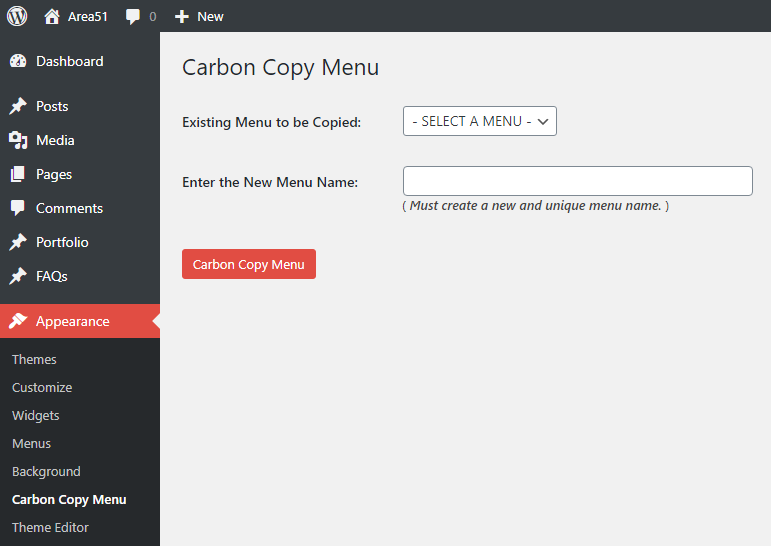
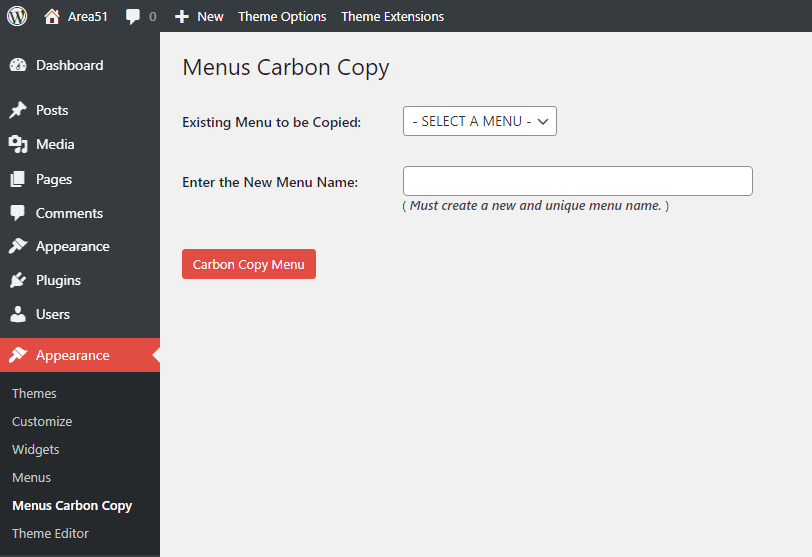
init 1.2.6

diff --git a/carbon-copy-options.php b/carbon-copy-options.php
@@ -31,6 +31,7 @@ function carbon_copy_register_settings()
 	register_setting( 'carbon_copy_group', 'carbon_copy_copycomments' );
 	register_setting( 'carbon_copy_group', 'carbon_copy_copymenuorder' );
 
+	register_setting( 'carbon_copy_group', 'carbon_copy_widgets_classic' );
 	register_setting( 'carbon_copy_group', 'carbon_copy_widgets' );
 	register_setting( 'carbon_copy_group', 'carbon_copy_menus' );
 
@@ -161,12 +162,18 @@ jQuery( function()
 
 	<div style="padding:10px 0px;"></div>
 	<h3>Others</h3>
+
 	<label>
-		<input type="checkbox" name="carbon_copy_widgets" value="1" <?php if( get_option( 'carbon_copy_widgets' ) == 1 ) echo 'checked="checked"'; ?> /><?php esc_html_e( "Apperance > Widgets", 'default' ); ?>
+		<input type="checkbox" name="carbon_copy_widgets_classic" value="1" <?php if( get_option( 'carbon_copy_widgets_classic' ) == 1 ) echo 'checked="checked"'; ?> /><strong><?php esc_html_e( "Classic Widgets:", 'default' ); ?></strong> <?php esc_html_e( "Disables Widget Block Editor Management", 'default' ); ?>
+	</label><?php if( get_option( 'carbon_copy_widgets_classic' ) == 1 ) echo ' | <a href="widgets.php" title="Opens Widgets page in New Window" target="_blank">Widgets Page</a>'; ?><br />
+
+	<label>
+		<input type="checkbox" name="carbon_copy_widgets" value="1" <?php if( get_option( 'carbon_copy_widgets' ) == 1 ) echo 'checked="checked"'; ?> /><strong><?php esc_html_e( "Widgets Carbon Copier:", 'default' ); ?></strong> <?php esc_html_e( "(only works with Classic Widgets) Located under Appearance > Widgets", 'default' ); ?>
 	</label><?php if( get_option( 'carbon_copy_widgets' ) == 1 ) echo ' | <a href="widgets.php" title="Opens Widgets page in New Window" target="_blank">Widgets Page</a>'; ?><br />
+  
 	<label>
-		<input type="checkbox" name="carbon_copy_menus" value="1" <?php if( get_option( 'carbon_copy_menus' ) == 1 ) echo 'checked="checked"'; ?> /><?php esc_html_e( "Appearance > Menus", 'default' ); ?>
-	</label><?php if( get_option( 'carbon_copy_menus' ) == 1 ) echo ' | <a href="themes.php?page=carbon-copy-menu" title="Opens Carbon Copy Menu page in New Window" target="_blank">Menu Copier</a>'; ?><br />
+		<input type="checkbox" name="carbon_copy_menus" value="1" <?php if( get_option( 'carbon_copy_menus' ) == 1 ) echo 'checked="checked"'; ?> /><strong><?php esc_html_e( "Menus Carbon Copy:", 'default' ); ?></strong> <?php esc_html_e( "Located under Appearance > Menus Carbon Copy", 'default' ); ?>
+	</label><?php if( get_option( 'carbon_copy_menus' ) == 1 ) echo ' | <a href="themes.php?page=carbon-copy-menu" title="Opens Menus Carbon Copy page in New Window" target="_blank">Menus Carbon Copy</a>'; ?><br />
 
 <div style="padding:10px 0px;"></div>
 <h2 id="permissions">Copy Permissions</h2>

diff --git a/carbon-copy-admin.php b/carbon-copy-admin.php
@@ -138,7 +138,8 @@ function carbon_copy_plugin_upgrade()
 	add_option( 'carbon_copy_copycomments', '0' );
 	add_option( 'carbon_copy_copymenuorder', '0' );
 
-	add_option( 'carbon_copy_widgets', '1' );
+	add_option( 'carbon_copy_widgets_classic', '0' );
+  add_option( 'carbon_copy_widgets', '0' );
 	add_option( 'carbon_copy_menus', '0' );
 	
 	// ! carbon copy roles
@@ -961,6 +962,16 @@ function carbon_copy_has_ancestors_marked( $post, $post_ids )
 	return( $ancestors_in_array !== 0 );
 }
 
+// Carbon Copy Restore Classic Widgets
+$carbon_copy_widgets_init = get_option( 'carbon_copy_widgets_classic' );
+if( $carbon_copy_widgets_init == '1' )
+{
+  // Disable block editor widget management in Gutenberg.
+  add_filter( 'gutenberg_use_widgets_block_editor', '__return_false' );
+  // Disable block editor widget management. Apperance > Widgets.
+  add_filter( 'use_widgets_block_editor', '__return_false' );
+}
+
 // Carbon Copy Widgets
 $carbon_copy_widgets_init = get_option( 'carbon_copy_widgets' );
 if( $carbon_copy_widgets_init == '1' )
@@ -1077,13 +1088,13 @@ class CarbonCopyMenu
     function __construct()
 	{
         add_action( 'admin_menu', array( $this, 'options_page' ) );
-    }
-    // Admin menu Appearance > Menu Copier
+  }
+  // Admin menu Appearance > Menus Carbon Copy
 	function options_page()
 	{
         add_theme_page(
-            'Carbon Copy Menu',
-            'Carbon Copy Menu',
+            'Menus Carbon Copy',
+            'Menus Carbon Copy',
             'edit_theme_options',
             'carbon-copy-menu',
             array( $this, 'options_screen' )
@@ -1158,7 +1169,7 @@ class CarbonCopyMenu
 
 <div class="wrap">
 
-	<h2><?php esc_html_e( 'Carbon Copy Menu', 'default' ); ?></h2>
+	<h2><?php esc_html_e( 'Menus Carbon Copy', 'default' ); ?></h2>
 	<?php if( ! empty( $_POST ) && wp_verify_nonce( $_POST['carbon_copy_menu_nonce'], 'carbon_copy_menu' ) ) : ?>
 		<?php
 			$source_menu   = intval( $_POST['source_menu'] );

diff --git a/carbon-copy.php b/carbon-copy.php
@@ -8,8 +8,8 @@ Author URI: https://endurtech.com/
 License: GPLv3 or later
 License URI: http://www.gnu.org/licenses/gpl-3.0.html
 Requires at least: 5.0
-Tested up to: 5.7
-Version: 1.2.4
+Tested up to: 5.8
+Version: 1.2.6
 
 This program is distributed in the hope that it will be useful,
 but WITHOUT ANY WARRANTY; without even the implied warranty of
@@ -20,7 +20,7 @@ if( ! defined( 'ABSPATH' ) )
   exit(); // No direct access
 }
 
-define( 'CARBON_COPY_CURRENT_VERSION', '1.2.4' );
+define( 'CARBON_COPY_CURRENT_VERSION', '1.2.6' );
 
 add_filter( "plugin_action_links_".plugin_basename(__FILE__), "carbon_copy_plugin_actions", 10, 4 );
 function carbon_copy_plugin_actions( $actions, $plugin_file, $plugin_data, $context )
@@ -66,6 +66,7 @@ function carbon_copy_deactivation_cleaner()
 		delete_option( 'carbon_copy_copycomments' );
 		delete_option( 'carbon_copy_copymenuorder' );
 
+    	delete_option( 'carbon_copy_widgets_classic' );
 		delete_option( 'carbon_copy_widgets' );
 		delete_option( 'carbon_copy_menus' );
 

diff --git a/README.md b/README.md
@@ -4,19 +4,23 @@ Contributors: Manny Rodrigues
 Donations: https://endurtech.com/give-thanks/  
 Tags: duplicate, page, pages, post, posts, widget, widgets, menu, menus, custom post type, copy, clone, replicate
 Requires WP: 5.0  
-Tested to: 5.7  
-Stable tag: 1.2.4  
+Tested to: 5.8  
+Stable tag: 1.2.6  
 License: GPLv3 or later  
 
 ## Description
 
-> Are you ready to increase your productivity? This free WordPress plugin will allow you to quickly and conveniently copy your pages, posts, menus, widgets and even your custom post types. You can quickly copy, bulk copy and copy straight to new drafts.  
+> Are you ready to increase your productivity? The Carbon Copy WordPress plugin will allow you to quickly and conveniently copy your pages, posts, menus, widgets and even your custom post types. You can quickly copy, bulk copy and copy straight to new drafts.  
 
-Carbon Copy has many useful settings to customize its behavior, restrict its use to certain roles or post types and will increase your productivity. For more information check out the plugin documentation at [the plugin's site](https://endurtech.com/carbon-copy-wordpress-plugin/).  
+WordPress v5.8 introduces a new Block based widgets page which integrates the ability to duplicate widgets. Thus the widgets copy feature within Carbon Copy is no longer needed.  
+
+However, some may wish to revert their widgets page back to the traditional widgets. If so, Carbon Copy 1.2.6 now has an option permitting you to disable the new Block based widgets within WordPress v5.8 and restoring the traditional way in which you managed your widgets as well as copied them using the plugin.  
+
+Carbon Copy has many other useful settings to customize its behavior, restrict its use to certain roles or post types and will increase your productivity. For more information check out the plugin documentation on  [the plugin's site](https://endurtech.com/carbon-copy-wordpress-plugin/).  
 
 Carbon Copy does not display any annoying ads or pop-ups and does not collect any information outside your WordPress installation. Carbon Copy is 100% GDPR compliant.  
 
-If you find this free plugin useful, support my work and future improvements to this plugin by [sending me a tip using Brave](https://endurtech.com/send-a-tip-using-the-brave-browser/) or by [sending me a one-time donation](https://endurtech.com/give-thanks/).  
+Find this free plugin useful? Please support my work on this plugin by [sending me a tip using Brave](https://endurtech.com/send-a-tip-using-the-brave-browser/) or by [sending me a one-time donation](https://endurtech.com/give-thanks/).  
 
 ## Features
 
@@ -27,6 +31,7 @@ If you find this free plugin useful, support my work and future improvements to 
 * While viewing a post as a logged in user, you can click on 'Copy to new draft' from the admin bar.
 * Developers can use a **template tag**, for use in your theme to clone your posts/pages from the front-end.
 * Quickly and easily create a copy of any widget with a single click.
+* NEW Option to disable the block editor from managing widgets in the Gutenberg plugin and from managing widgets.
 * Copy and rename entire navigational menus using Appearance > Carbon Copy Menu.
 * Toggle option to clean out the plugins' database values upon deactivation.
 
@@ -49,26 +54,38 @@ Use the Add New Plugin feature within your WordPress site and search for "Carbon
 
 ## Changelog
 
+* 1.2.6 (2021-07-14)
+  * Tested against WordPress 5.8
+  * Renamed and titled the Menus Carbon Copier feature.
+  * Added ability to disable the new Block based widgets introduced in WordPress v5.8. This will revert your widgets page back to the traditional widgets in Appearance - Widgets and Customizer.
+
 * 1.2.4 (2021-03-02)
   * Tested against WordPress 5.7
+
 * 1.2.3 (2020-12-28)
   * Tested against WordPress 5.6
+
 * 1.2.2 (2020-09-24)
   * New shortcuts added to Widget and Menu Copy options from Settings menu.
   * Ability to set new menu names from Menu Copy page.
-* 1.2.0 (2020-10-01)
+
+* 1.2.0 (2020-09-23)
   * NEW Menu copy feature introduced. Available under Appearance > Carbon Copy Menu. Working to integrate with main Menu page.
   * Other code improvements
+
 * 1.1.2 (2020-09-21)
   * Link text update, New Draft to just Draft
   * Updated text within action list for 'post_row_actions'
+
 * 1.1.1 (2020-09-17)
   * Checks user permissions for bulk actions, function renamed
   * Updated check for comment type
   * Taxonomies blacklist check updated
+
 * 1.1.0 (2020-08-14)
   * Added toggle option to copy and duplicate widgets
   * Added toggle option to clean stored plugin database values upon deactivation
+
 * 1.0.0 (2020-08-07)
   * Initial version on WP repository
   * Tested against WordPress 5.5
